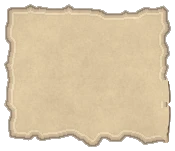
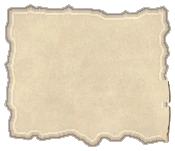
Lighten every paper sheet to the bar's scroll colour (tools/tone-paper.mjs)

diff --git a/CLAUDE.md b/CLAUDE.md
@@ -279,6 +279,9 @@ The original assets (hand-drawn world map, location art, character art, lore doc
     photographed once); `icon(name)` in `src/ui/icons.js`, with flat SVGs as a no-3D fallback.
   - Portraits of heroes and monsters are small renders of their figures (`src/ui/portraits.js`,
     one shared offscreen renderer, cached by gear/look).
+- **Paper sheets** (`public/art/ui/paper/*.webp`, the owner's painted blank paper, originals in
+  `hero-sheet-design-pack/…/blank-paper-assets (1)/`): used as 9-slice `border-image`s. They are recoloured
+  to the bar's light rolled-scroll colour by `node tools/tone-paper.mjs` (run it again if the originals change).
 - **The bar** (`#bar` in index.html) is a the painted rolled scroll (`public/art/ui/paper/rolled-scroll.webp` as a 9-slice on `.bar::before`; ink text, a red pencil slash under the open tab; "DM" for the Dungeon Master). It holds the sky dial (time + weather, opens the sky card), the
   map/places menu (and ‹ back from cities), the screen tabs,
   the other heroes with HP (wide screens only) and "you" (portrait + HP, opens the view-as/log-out
